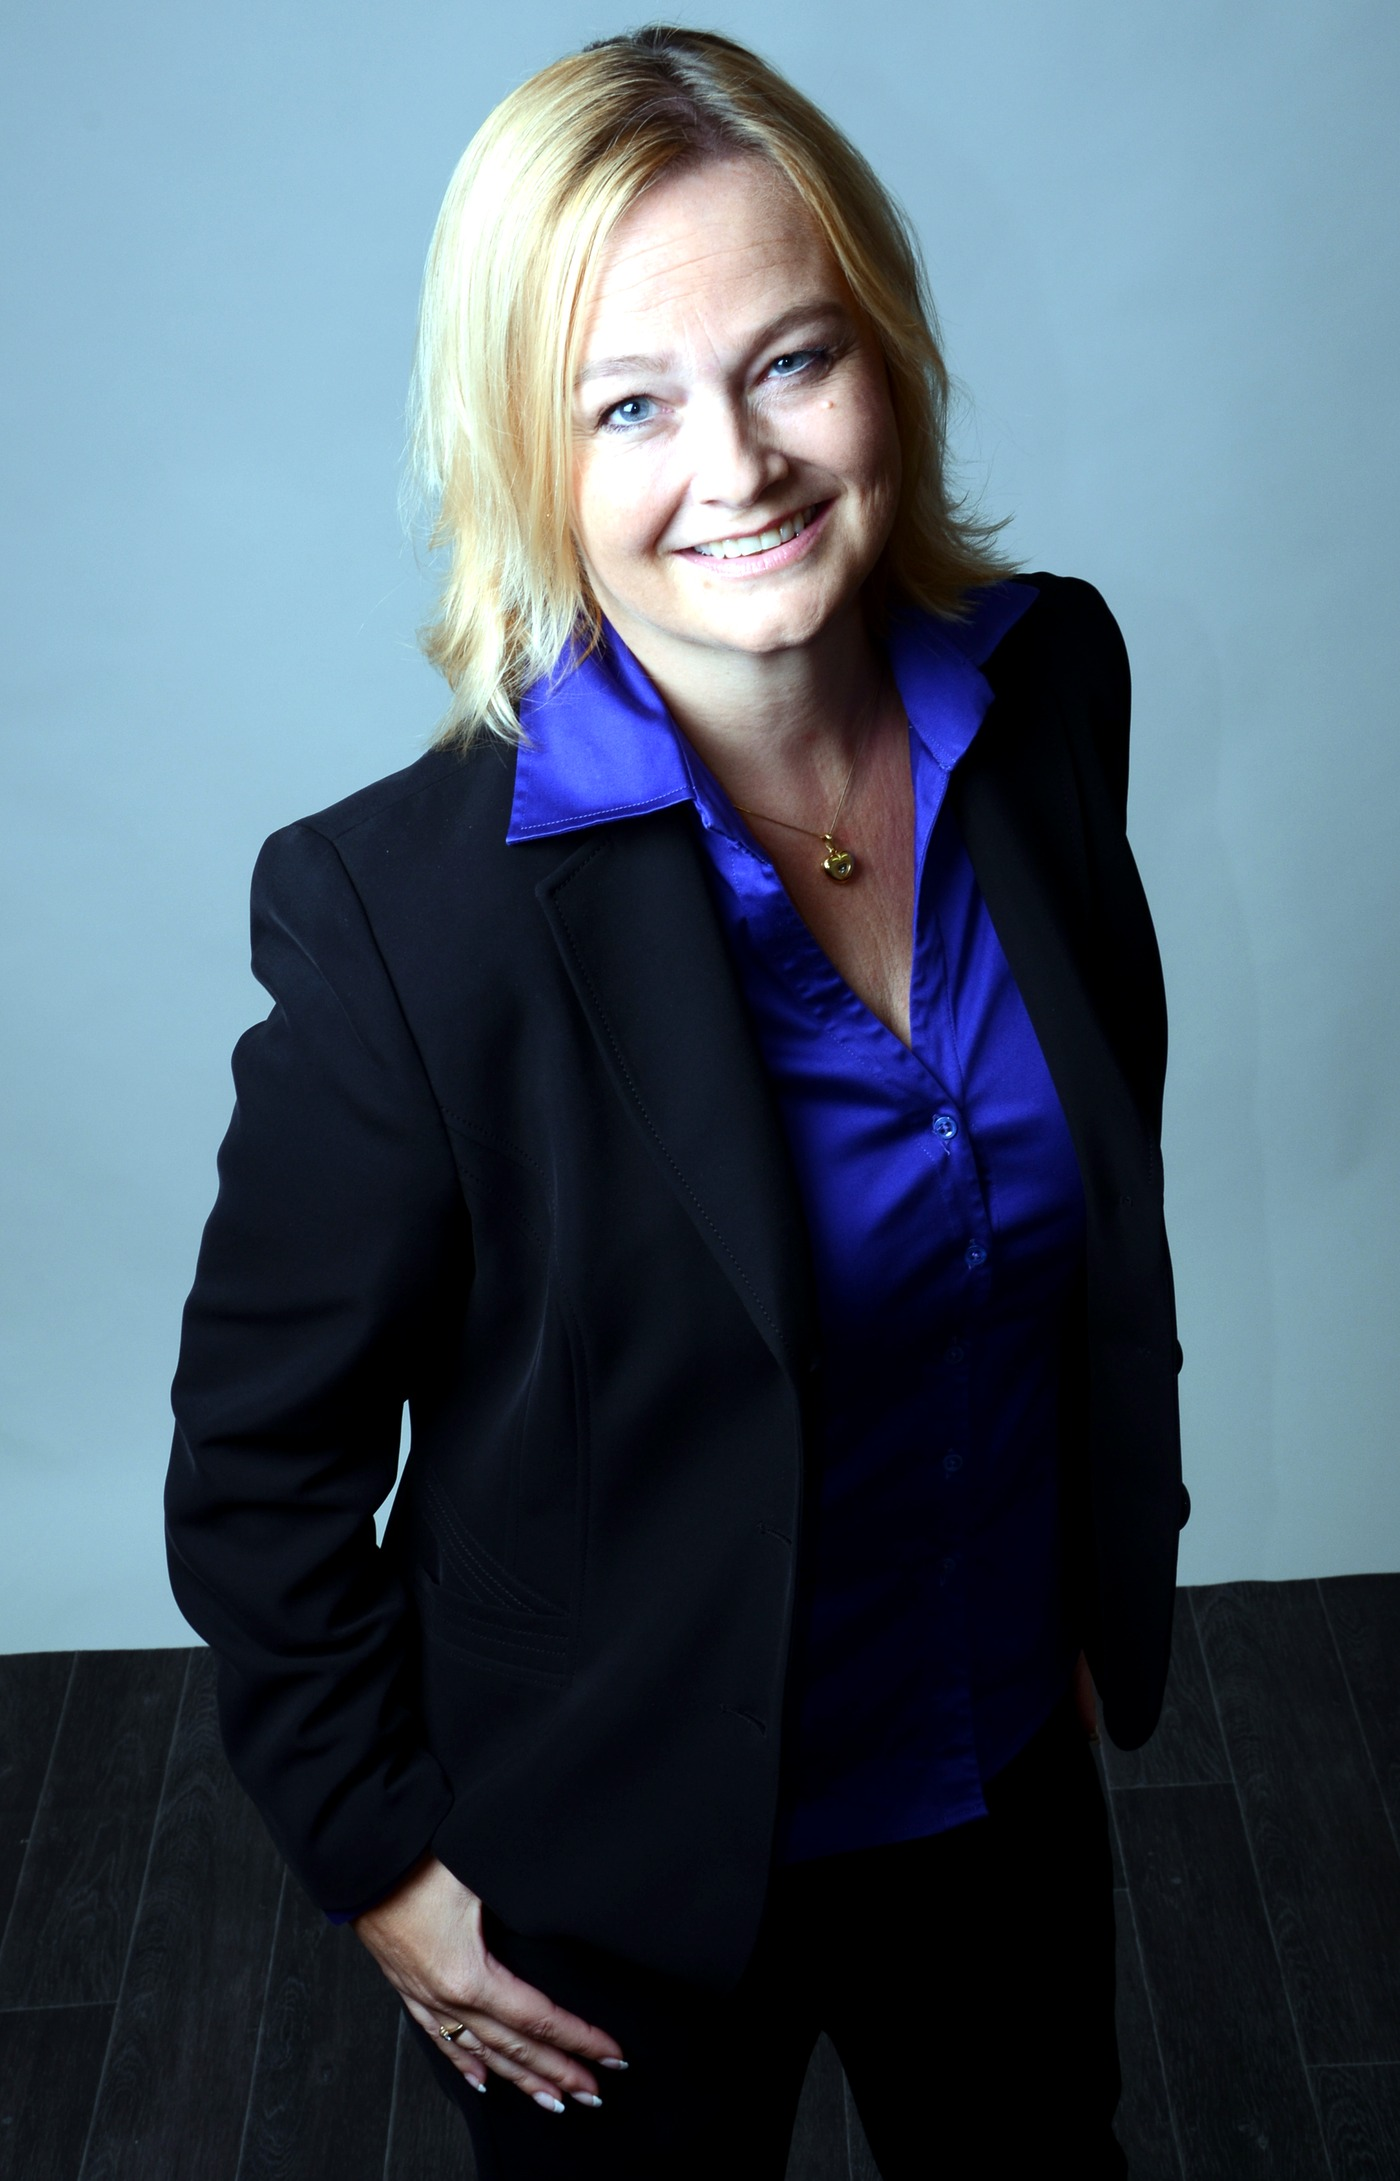
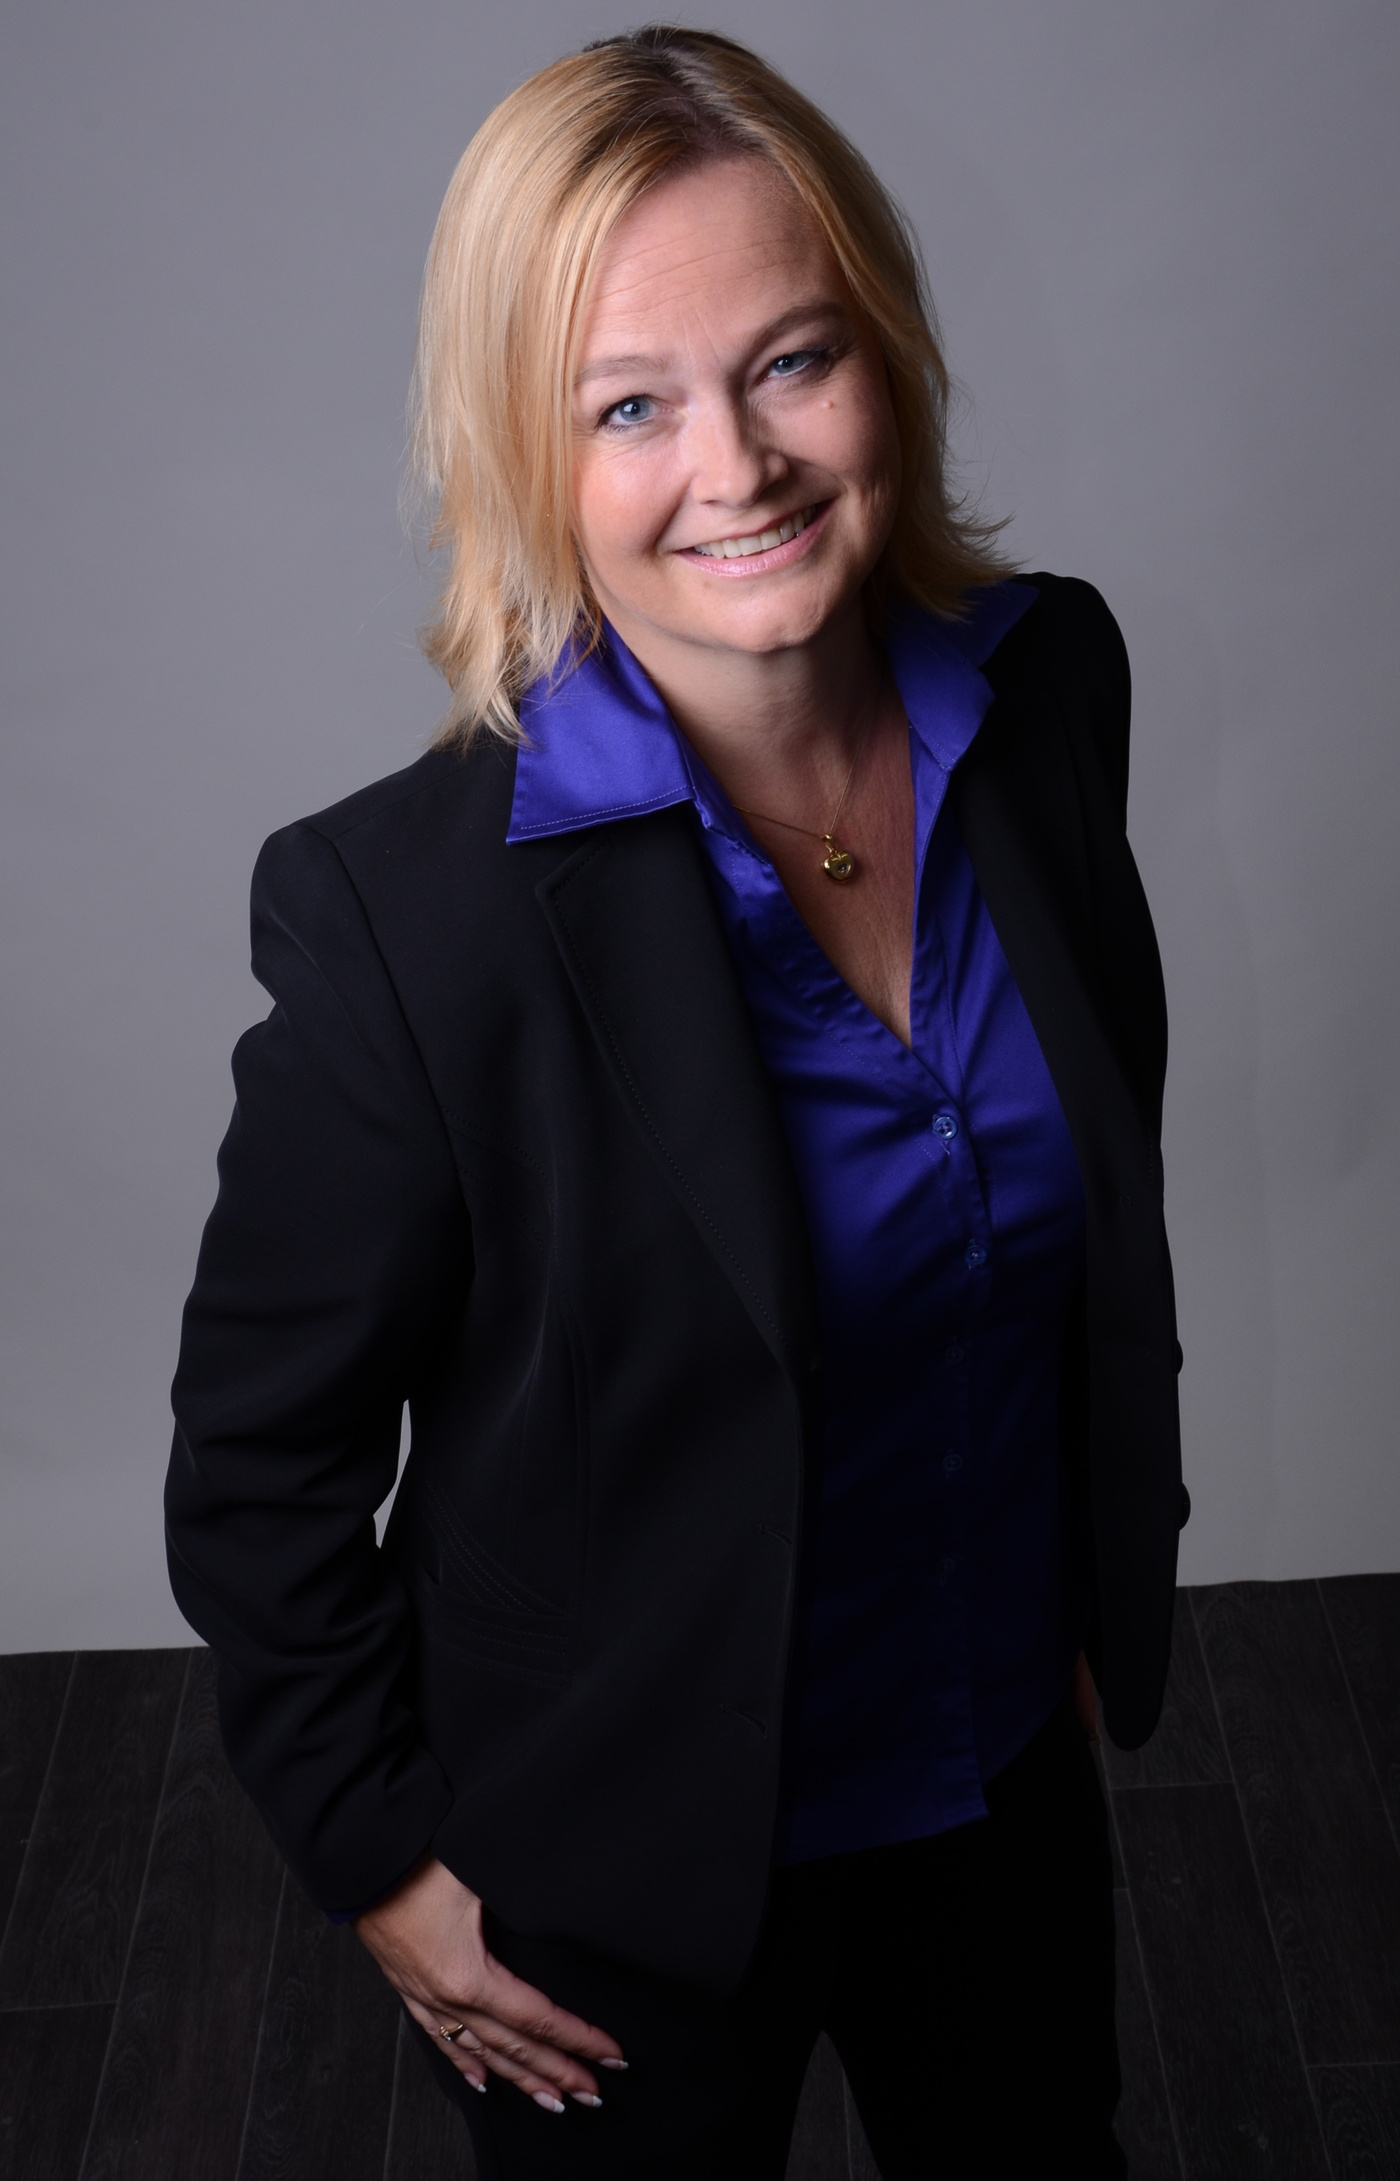
Add files via upload

diff --git a/marion-sessler.html b/marion-sessler.html
@@ -3,7 +3,7 @@
 <head>
 <meta charset="UTF-8">
 <meta name="viewport" content="width=device-width, initial-scale=1.0">
-<title>Marion Sessler – MHS</title>
+<title>Marion Seßler – MHS</title>
 <link rel="icon" href="favicon.ico">
 <link rel="apple-touch-icon" href="mhs-icon-180.png">
 <link rel="stylesheet" href="style.css">
@@ -18,7 +18,7 @@
         <li><a href="index.html">Start</a></li>
         <li><a href="beratung.html">Beratung</a></li>
         <li><a href="coaching.html">Coaching</a></li>
-        <li><a href="marion-sessler.html" class="active">Marion Sessler</a></li>
+        <li><a href="marion-sessler.html" class="active">Marion Seßler</a></li>
         <li><a href="kontakt.html">Kontakt</a></li>
       </ul>
     </nav>
@@ -33,7 +33,7 @@
   <div class="wrap hero-content" style="display:flex; justify-content:space-between; align-items:flex-start; gap:2rem; flex-wrap:wrap;">
     <div style="flex:1; min-width:280px;">
       <span class="subheadline">rund 35 Jahre Erfahrung in Training und Coaching</span>
-      <h1>Marion Sessler</h1>
+      <h1>Marion Seßler</h1>
       <p class="lead">Beratung und Coaching aus einer Hand – mit derselben Haltung: klar, stärkenorientiert, auf Augenhöhe.</p>
     </div>
     <div style="flex-shrink:0; text-align:right;">
@@ -45,10 +45,10 @@
 <section>
   <div class="wrap grid-2">
     <div style="border-radius:var(--radius); overflow:hidden;">
-      <img src="foto5-marionsessler.jpg" alt="Marion Sessler" style="width:100%; display:block;">
+      <img src="foto5-marionsessler.jpg" alt="Marion Seßler" style="width:100%; display:block;">
     </div>
     <div>
-      <p>Marion Sessler hat sich über mehrere Jahrzehnte hinweg ein tiefes methodisches und praktisches Fundament in der Trainings- und Coaching-Branche aufgebaut. Bei der INtem Trainergruppe Seßler &amp; Partner GmbH verantwortete sie über viele Jahre die Entwicklung und Konzeption von Trainings, die Betreuung von Lizenzpartnern sowie die Ausbildung von Trainer:innen und Coaches. Berufsbegleitend erwarb sie zusätzlich einen Master of Business Administration mit Schwerpunkt Marketing und Personalmanagement.</p>
+      <p>Marion Seßler hat sich über mehrere Jahrzehnte hinweg ein tiefes methodisches und praktisches Fundament in der Trainings- und Coaching-Branche aufgebaut. Bei der INtem Trainergruppe Seßler &amp; Partner GmbH verantwortete sie über viele Jahre die Entwicklung und Konzeption von Trainings, die Betreuung von Lizenzpartnern sowie die Ausbildung von Trainer:innen und Coaches. Berufsbegleitend erwarb sie zusätzlich einen Master of Business Administration mit Schwerpunkt Marketing und Personalmanagement.</p>
     </div>
   </div>
 </section>
@@ -56,7 +56,7 @@
 <section class="alt">
   <div class="wrap">
     <h2>Ihr Schwerpunkt</h2>
-    <p>Wie tragen Training und Coaching nachhaltig zur Verhaltensänderung und zur Bildung neuer Gewohnheiten bei – und damit zum Unternehmenserfolg oder zur eigenen Zielerreichung? Genau darauf liegt der Fokus von Marion Sessler: die Umsetzung und Anwendung des Erlernten im Alltag, fundiert durch die neuesten Erkenntnisse der Hirnforschung, der Neuro-Didaktik sowie der Positiven Psychologie.</p>
+    <p>Wie tragen Training und Coaching nachhaltig zur Verhaltensänderung und zur Bildung neuer Gewohnheiten bei – und damit zum Unternehmenserfolg oder zur eigenen Zielerreichung? Genau darauf liegt der Fokus von Marion Seßler: die Umsetzung und Anwendung des Erlernten im Alltag, fundiert durch die neuesten Erkenntnisse der Hirnforschung, der Neuro-Didaktik sowie der Positiven Psychologie.</p>
   </div>
 </section>
 
@@ -78,7 +78,7 @@
 <section class="alt">
   <div class="wrap">
     <h2>Ausgezeichnet</h2>
-    <p>Für ein von ihr entwickeltes Konzept zur Führungskräfteausbildung ("Verkaufs-Training zum Coach on the job") erhielt Marion Sessler beim Deutschen Trainings-Preis Silber in der Kategorie Dienstleister. Insgesamt wurde Marion Seßler für ihre Konzepte in der Personalentwicklung über 30 Mal mit nationalen und internationalen Preisen ausgezeichnet.</p>
+    <p>Für ein von ihr entwickeltes Konzept zur Führungskräfteausbildung ("Verkaufs-Training zum Coach on the job") erhielt Marion Seßler beim Deutschen Trainings-Preis Silber in der Kategorie Dienstleister. Insgesamt wurde Marion Seßler für ihre Konzepte in der Personalentwicklung über 30 Mal mit nationalen und internationalen Preisen ausgezeichnet.</p>
   </div>
 </section>
 
@@ -99,7 +99,7 @@
 <footer>
   <div class="wrap footer-inner">
     <img src="mhs-logo-freigestellt.png" alt="MHS Logo" style="height:28px;">
-    <span>© 2026 Marion Sessler · Beratung &amp; Coaching · <a href="impressum.html">Impressum</a> · <a href="datenschutz.html">Datenschutz</a></span>
+    <span>© 2026 Marion Seßler · Beratung &amp; Coaching · <a href="impressum.html">Impressum</a> · <a href="datenschutz.html">Datenschutz</a></span>
   </div>
 </footer>
 

diff --git a/index.html b/index.html
@@ -3,7 +3,7 @@
 <head>
 <meta charset="UTF-8">
 <meta name="viewport" content="width=device-width, initial-scale=1.0">
-<title>MHS – Marion Sessler | Beratung &amp; Coaching</title>
+<title>MHS – Marion Seßler | Beratung &amp; Coaching</title>
 <link rel="icon" href="favicon.ico">
 <link rel="apple-touch-icon" href="mhs-icon-180.png">
 <link rel="stylesheet" href="style.css">
@@ -18,7 +18,7 @@
         <li><a href="index.html" class="active">Start</a></li>
         <li><a href="beratung.html">Beratung</a></li>
         <li><a href="coaching.html">Coaching</a></li>
-        <li><a href="marion-sessler.html">Marion Sessler</a></li>
+        <li><a href="marion-sessler.html">Marion Seßler</a></li>
         <li><a href="kontakt.html">Kontakt</a></li>
       </ul>
     </nav>
@@ -33,7 +33,7 @@
   <div class="wrap hero-content" style="display:flex; justify-content:space-between; align-items:flex-start; gap:2rem; flex-wrap:wrap;">
     <div style="flex:1; min-width:280px;">
       <h1>Entwicklung, die bleibt.</h1>
-      <p class="lead">Ob im Team oder ganz persönlich: Marion Sessler begleitet echte Veränderung – wirksam, konkret, auf Augenhöhe. Zwei Bereiche, ein Anspruch.</p>
+      <p class="lead">Ob im Team oder ganz persönlich: Marion Seßler begleitet echte Veränderung – wirksam, konkret, auf Augenhöhe. Zwei Bereiche, ein Anspruch.</p>
     </div>
     <div style="flex-shrink:0; text-align:right;">
       <img src="mhs-logo-freigestellt.png" alt="MHS Logo" style="height:90px;">
@@ -63,12 +63,12 @@
 <section class="alt">
   <div class="wrap grid-2">
     <div style="border-radius:var(--radius); overflow:hidden;">
-      <img src="foto5-homepage.jpg" alt="Marion Sessler" style="width:100%; height:100%; object-fit:cover; display:block;">
+      <img src="foto5-homepage.jpg" alt="Marion Seßler" style="width:100%; height:100%; object-fit:cover; display:block;">
     </div>
     <div>
       <h3>Eine Person, zwei Wege</h3>
-      <p>Marion Sessler verbindet beide Bereiche mit derselben Haltung: klar, stärkenorientiert und immer mit Blick auf das, was wirklich wirkt.</p>
-      <a href="marion-sessler.html" class="btn btn-outline">Mehr über Marion Sessler</a>
+      <p>Marion Seßler verbindet beide Bereiche mit derselben Haltung: klar, stärkenorientiert und immer mit Blick auf das, was wirklich wirkt.</p>
+      <a href="marion-sessler.html" class="btn btn-outline">Mehr über Marion Seßler</a>
     </div>
   </div>
 </section>
@@ -84,7 +84,7 @@
 <footer>
   <div class="wrap footer-inner">
     <img src="mhs-logo-freigestellt.png" alt="MHS Logo" style="height:28px;">
-    <span>© 2026 Marion Sessler · Beratung &amp; Coaching · <a href="impressum.html">Impressum</a> · <a href="datenschutz.html">Datenschutz</a></span>
+    <span>© 2026 Marion Seßler · Beratung &amp; Coaching · <a href="impressum.html">Impressum</a> · <a href="datenschutz.html">Datenschutz</a></span>
   </div>
 </footer>
 

diff --git a/datenschutz.html b/datenschutz.html
@@ -3,7 +3,7 @@
 <head>
 <meta charset="UTF-8">
 <meta name="viewport" content="width=device-width, initial-scale=1.0">
-<title>Datenschutzerklärung – MHS | Marion Sessler</title>
+<title>Datenschutzerklärung – MHS | Marion Seßler</title>
 <link rel="icon" href="favicon.ico">
 <link rel="apple-touch-icon" href="mhs-icon-180.png">
 <link rel="stylesheet" href="style.css">
@@ -18,7 +18,7 @@
         <li><a href="index.html">Start</a></li>
         <li><a href="beratung.html">Beratung</a></li>
         <li><a href="coaching.html">Coaching</a></li>
-        <li><a href="marion-sessler.html">Marion Sessler</a></li>
+        <li><a href="marion-sessler.html">Marion Seßler</a></li>
         <li><a href="kontakt.html">Kontakt</a></li>
       </ul>
     </nav>
@@ -96,7 +96,7 @@
 <footer>
   <div class="wrap footer-inner">
     <img src="mhs-logo-freigestellt.png" alt="MHS Logo" style="height:28px;">
-    <span>© 2026 Marion Sessler · Beratung &amp; Coaching · <a href="impressum.html">Impressum</a> · <a href="datenschutz.html">Datenschutz</a></span>
+    <span>© 2026 Marion Seßler · Beratung &amp; Coaching · <a href="impressum.html">Impressum</a> · <a href="datenschutz.html">Datenschutz</a></span>
   </div>
 </footer>
 

diff --git a/beratung.html b/beratung.html
@@ -3,7 +3,7 @@
 <head>
 <meta charset="UTF-8">
 <meta name="viewport" content="width=device-width, initial-scale=1.0">
-<title>Beratung – MHS | Marion Sessler</title>
+<title>Beratung – MHS | Marion Seßler</title>
 <link rel="icon" href="favicon.ico">
 <link rel="apple-touch-icon" href="mhs-icon-180.png">
 <link rel="stylesheet" href="style.css">
@@ -18,7 +18,7 @@
         <li><a href="index.html">Start</a></li>
         <li><a href="beratung.html" class="active">Beratung</a></li>
         <li><a href="coaching.html">Coaching</a></li>
-        <li><a href="marion-sessler.html">Marion Sessler</a></li>
+        <li><a href="marion-sessler.html">Marion Seßler</a></li>
         <li><a href="kontakt.html">Kontakt</a></li>
       </ul>
     </nav>
@@ -103,7 +103,7 @@
 <footer>
   <div class="wrap footer-inner">
     <img src="mhs-logo-freigestellt.png" alt="MHS Logo" style="height:28px;">
-    <span>© 2026 Marion Sessler · Beratung &amp; Coaching · <a href="impressum.html">Impressum</a> · <a href="datenschutz.html">Datenschutz</a></span>
+    <span>© 2026 Marion Seßler · Beratung &amp; Coaching · <a href="impressum.html">Impressum</a> · <a href="datenschutz.html">Datenschutz</a></span>
   </div>
 </footer>
 

diff --git a/coaching.html b/coaching.html
@@ -3,7 +3,7 @@
 <head>
 <meta charset="UTF-8">
 <meta name="viewport" content="width=device-width, initial-scale=1.0">
-<title>Coaching – MHS | Marion Sessler</title>
+<title>Coaching – MHS | Marion Seßler</title>
 <link rel="icon" href="favicon.ico">
 <link rel="apple-touch-icon" href="mhs-icon-180.png">
 <link rel="stylesheet" href="style.css">
@@ -18,7 +18,7 @@
         <li><a href="index.html">Start</a></li>
         <li><a href="beratung.html">Beratung</a></li>
         <li><a href="coaching.html" class="active">Coaching</a></li>
-        <li><a href="marion-sessler.html">Marion Sessler</a></li>
+        <li><a href="marion-sessler.html">Marion Seßler</a></li>
         <li><a href="kontakt.html">Kontakt</a></li>
       </ul>
     </nav>
@@ -102,7 +102,7 @@
 <footer>
   <div class="wrap footer-inner">
     <img src="mhs-logo-freigestellt.png" alt="MHS Logo" style="height:28px;">
-    <span>© 2026 Marion Sessler · Beratung &amp; Coaching · <a href="impressum.html">Impressum</a> · <a href="datenschutz.html">Datenschutz</a></span>
+    <span>© 2026 Marion Seßler · Beratung &amp; Coaching · <a href="impressum.html">Impressum</a> · <a href="datenschutz.html">Datenschutz</a></span>
   </div>
 </footer>
 

diff --git a/kontakt.html b/kontakt.html
@@ -3,7 +3,7 @@
 <head>
 <meta charset="UTF-8">
 <meta name="viewport" content="width=device-width, initial-scale=1.0">
-<title>Kontakt – MHS | Marion Sessler</title>
+<title>Kontakt – MHS | Marion Seßler</title>
 <link rel="icon" href="favicon.ico">
 <link rel="apple-touch-icon" href="mhs-icon-180.png">
 <link rel="stylesheet" href="style.css">
@@ -18,7 +18,7 @@
         <li><a href="index.html">Start</a></li>
         <li><a href="beratung.html">Beratung</a></li>
         <li><a href="coaching.html">Coaching</a></li>
-        <li><a href="marion-sessler.html">Marion Sessler</a></li>
+        <li><a href="marion-sessler.html">Marion Seßler</a></li>
         <li><a href="kontakt.html" class="active">Kontakt</a></li>
       </ul>
     </nav>
@@ -89,7 +89,7 @@
 <footer>
   <div class="wrap footer-inner">
     <img src="mhs-logo-freigestellt.png" alt="MHS Logo" style="height:28px;">
-    <span>© 2026 Marion Sessler · Beratung &amp; Coaching · <a href="impressum.html">Impressum</a> · <a href="datenschutz.html">Datenschutz</a></span>
+    <span>© 2026 Marion Seßler · Beratung &amp; Coaching · <a href="impressum.html">Impressum</a> · <a href="datenschutz.html">Datenschutz</a></span>
   </div>
 </footer>
 

diff --git a/impressum.html b/impressum.html
@@ -3,7 +3,7 @@
 <head>
 <meta charset="UTF-8">
 <meta name="viewport" content="width=device-width, initial-scale=1.0">
-<title>Impressum – MHS | Marion Sessler</title>
+<title>Impressum – MHS | Marion Seßler</title>
 <link rel="icon" href="favicon.ico">
 <link rel="apple-touch-icon" href="mhs-icon-180.png">
 <link rel="stylesheet" href="style.css">
@@ -18,7 +18,7 @@
         <li><a href="index.html">Start</a></li>
         <li><a href="beratung.html">Beratung</a></li>
         <li><a href="coaching.html">Coaching</a></li>
-        <li><a href="marion-sessler.html">Marion Sessler</a></li>
+        <li><a href="marion-sessler.html">Marion Seßler</a></li>
         <li><a href="kontakt.html">Kontakt</a></li>
       </ul>
     </nav>
@@ -72,7 +72,7 @@
 <footer>
   <div class="wrap footer-inner">
     <img src="mhs-logo-freigestellt.png" alt="MHS Logo" style="height:28px;">
-    <span>© 2026 Marion Sessler · Beratung &amp; Coaching · <a href="impressum.html">Impressum</a> · <a href="datenschutz.html">Datenschutz</a></span>
+    <span>© 2026 Marion Seßler · Beratung &amp; Coaching · <a href="impressum.html">Impressum</a> · <a href="datenschutz.html">Datenschutz</a></span>
   </div>
 </footer>
 

diff --git a/danke.html b/danke.html
@@ -3,7 +3,7 @@
 <head>
 <meta charset="UTF-8">
 <meta name="viewport" content="width=device-width, initial-scale=1.0">
-<title>Danke – MHS | Marion Sessler</title>
+<title>Danke – MHS | Marion Seßler</title>
 <link rel="icon" href="favicon.ico">
 <link rel="apple-touch-icon" href="mhs-icon-180.png">
 <link rel="stylesheet" href="style.css">
@@ -18,7 +18,7 @@
         <li><a href="index.html">Start</a></li>
         <li><a href="beratung.html">Beratung</a></li>
         <li><a href="coaching.html">Coaching</a></li>
-        <li><a href="marion-sessler.html">Marion Sessler</a></li>
+        <li><a href="marion-sessler.html">Marion Seßler</a></li>
         <li><a href="kontakt.html">Kontakt</a></li>
       </ul>
     </nav>
@@ -36,7 +36,7 @@
 <footer>
   <div class="wrap footer-inner">
     <img src="mhs-logo-freigestellt.png" alt="MHS Logo" style="height:28px;">
-    <span>© 2026 Marion Sessler · Beratung &amp; Coaching · <a href="impressum.html">Impressum</a> · <a href="datenschutz.html">Datenschutz</a></span>
+    <span>© 2026 Marion Seßler · Beratung &amp; Coaching · <a href="impressum.html">Impressum</a> · <a href="datenschutz.html">Datenschutz</a></span>
   </div>
 </footer>
 
